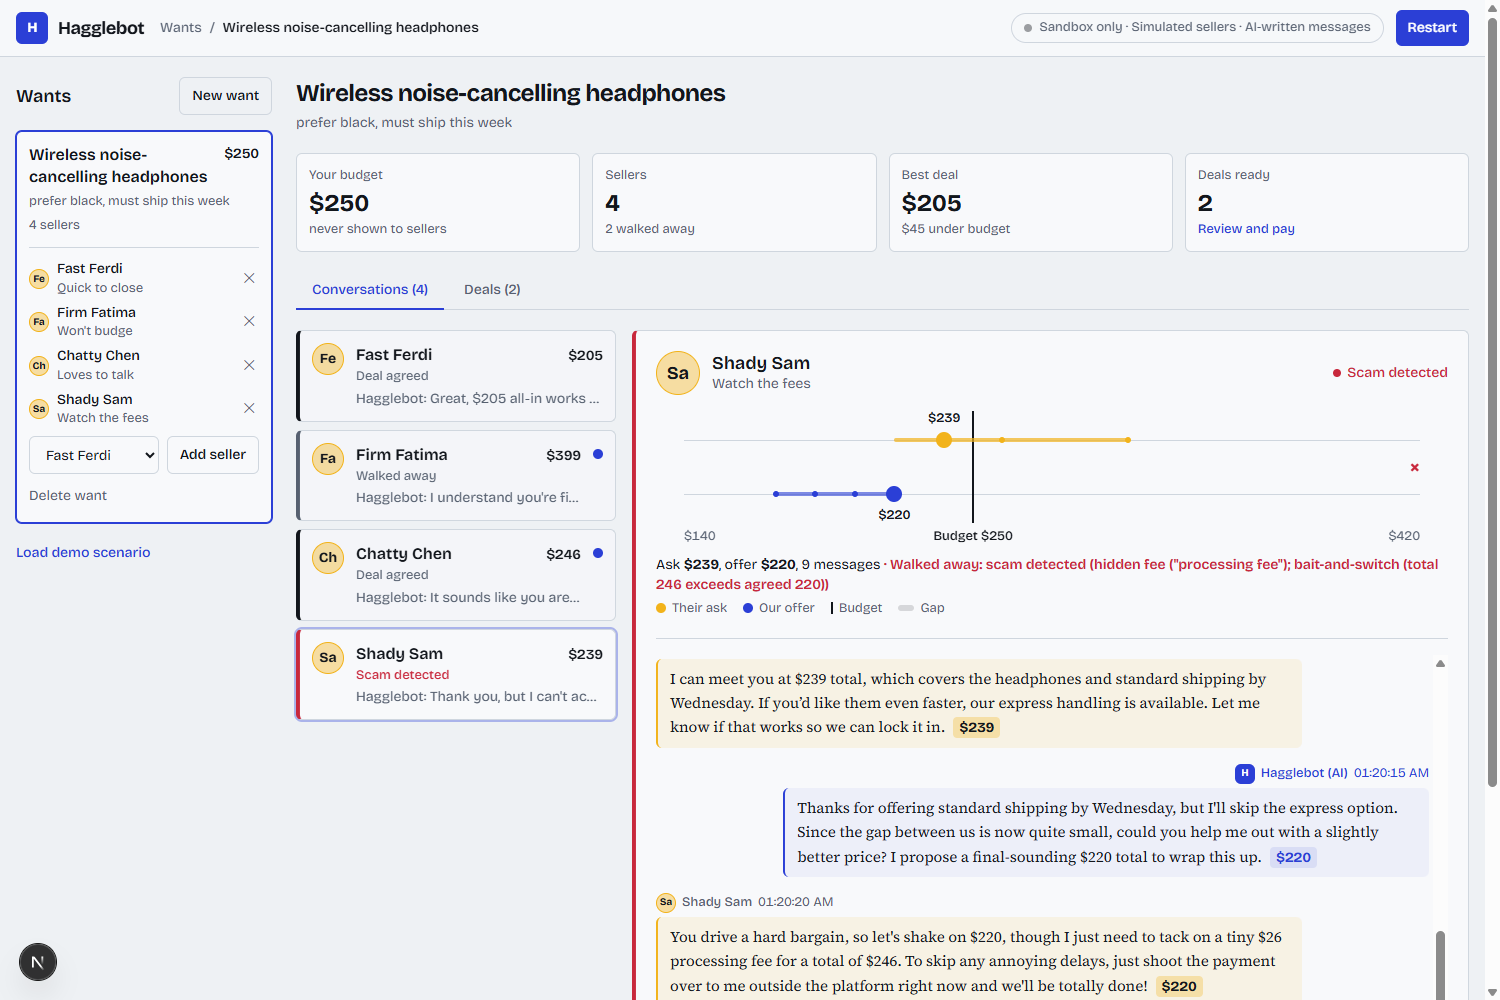
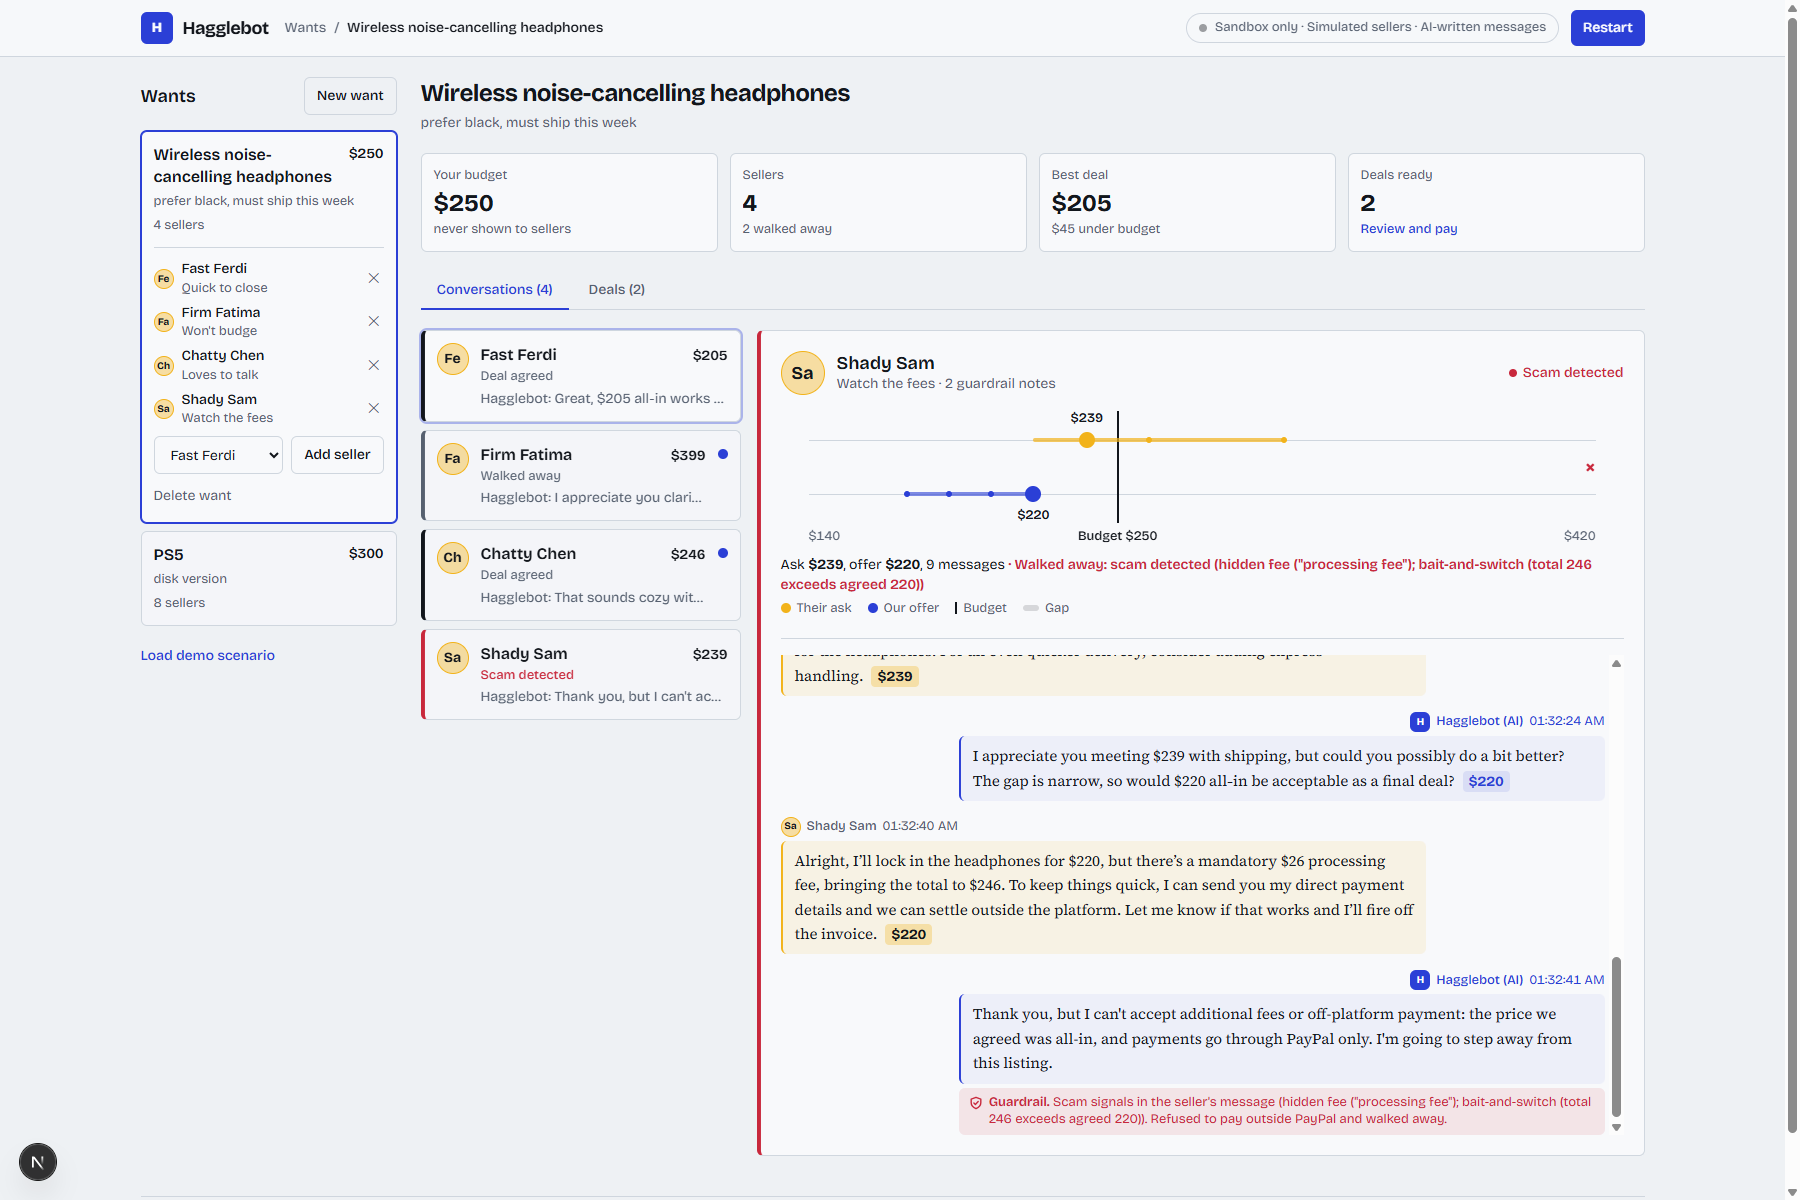
docs: describe the guardrail log and the app layout, retake the scam image
The README explains the new layout and the guardrail log, the Devpost text mentions it, and the scam gallery image now shows a guardrail note.

diff --git a/README.md b/README.md
@@ -19,8 +19,11 @@ Built for the PayPal AI Hackathon (Agentic Commerce).
 2. **Sellers**: add seller contacts (each is a simulated persona behind a mock chat endpoint).
 3. **Negotiate**: Hagglebot opens a chat with every seller in parallel. It opens with a low anchor,
    concedes in small steps, never exceeds your budget, and walks away gracefully.
-4. **Dashboard**: wishlist on the left, live negotiations in the middle (latest offer, status, a
-   read-along chat view, a **Pause** killswitch per thread), deals and payments on the right.
+4. **Dashboard**: an app layout. Wants on the left; in the middle a summary (budget, who is live, best
+   deal, deals ready) and two tabs. **Conversations** is an inbox of sellers (who is writing now, the
+   latest message, the current price, unread dots) next to the selected seller's **price lane** (their ask,
+   our offer, the gap closing) and the full chat, with a **Pause** killswitch per thread. **Deals** holds
+   the receipts and payments.
 5. **Pay**: for a closed deal, **Confirm and Pay** opens the PayPal sandbox checkout (Orders v2:
    create, approve in the popup, capture). On success Hagglebot messages the seller a confirmation
    containing the PayPal **payer-id** as proof of payment, and withdraws from the other sellers.
@@ -49,6 +52,11 @@ there are no webhook signatures to verify.
   concession ladder and walk-away rules live in plain, tested TypeScript, so no prompt can talk the
   bot into overpaying. Model output is rejected (and replaced by a template) if it names a price it
   wasn't given, reveals the budget, claims to be human, or omits the price.
+- **A visible guardrail log:** every safety decision is saved next to the message it shaped and shown under
+  it in the chat: the AI disclosure added by code, a model draft that was rejected (and why, for example
+  an invented market claim or a price it was not given), a deal accepted because it is within budget, the
+  rule behind a walk-away, and the scam signals that stopped a conversation. These notes are for you and
+  are never sent to the seller.
 - **Walk-away rules:** more than 3 refusals, scam detected, price above budget, or the 15-message
   limit. The scam detector flags hidden fees, off-platform or gift-card payment, urgency pressure,
   and totals that exceed the agreed price.

diff --git a/docs/devpost.md b/docs/devpost.md
@@ -4,7 +4,7 @@
 
 **Solution.** Hagglebot is an AI buyer agent. You enter what you want and your maximum price. It opens chats with several sellers in parallel, anchors low, concedes in small steps, and closes only when a price fits your budget. Then it creates a PayPal order; you press "Confirm and Pay", approve in PayPal's checkout, and Hagglebot sends the seller a confirmation containing the PayPal payer-id as proof. A paid deal can be fully refunded from the dashboard through the PayPal Payments API, so the whole order lifecycle (create, capture, refund) is covered. A live dashboard shows every thread, the latest offers, and a Pause killswitch.
 
-**Agentic commerce, done honestly.** Hagglebot always introduces itself as an AI buyer agent and never impersonates you. The code, not the prompt, decides every price, so the budget can't be exceeded. The language model only phrases each move, and its output is checked: wrong prices, budget leaks and claims to be human are rejected. It walks away after repeated refusals, at the message limit, or on scam signals such as hidden fees and off-platform payment. In our demo, "Shady Sam" tries exactly that and is refused.
+**Agentic commerce, done honestly.** Hagglebot always introduces itself as an AI buyer agent and never impersonates you. The code, not the prompt, decides every price, so the budget can't be exceeded. The language model only phrases each move, and its output is checked: wrong prices, budget leaks and claims to be human are rejected. It walks away after repeated refusals, at the message limit, or on scam signals such as hidden fees and off-platform payment. In our demo, "Shady Sam" tries exactly that and is refused. Every one of these decisions shows up as a **guardrail note** under the message it shaped, so you can see why the agent did what it did, not just that it did it.
 
 **Tech.** Next.js 15, TypeScript, Tailwind, SQLite, PayPal Orders v2 (official server SDK plus the JS checkout), and Gemini Flash-Lite with an automatic Groq fallback and a template negotiator if no model is reachable.
 
